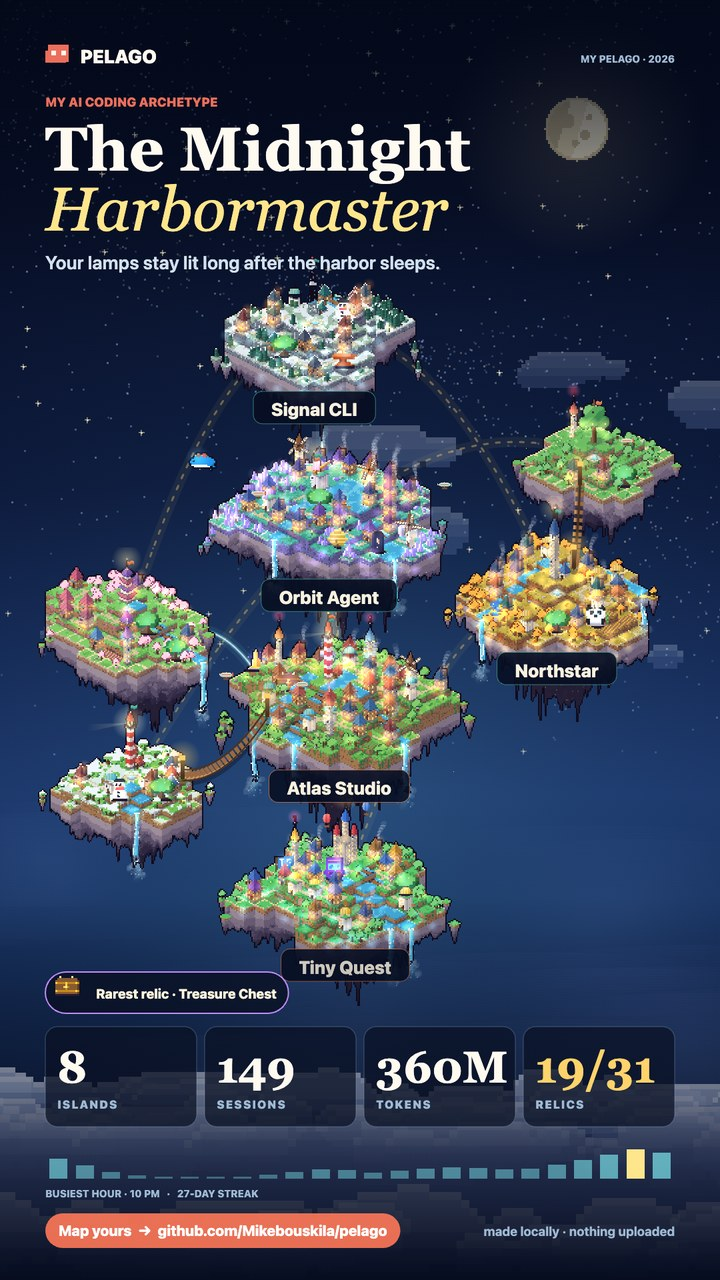
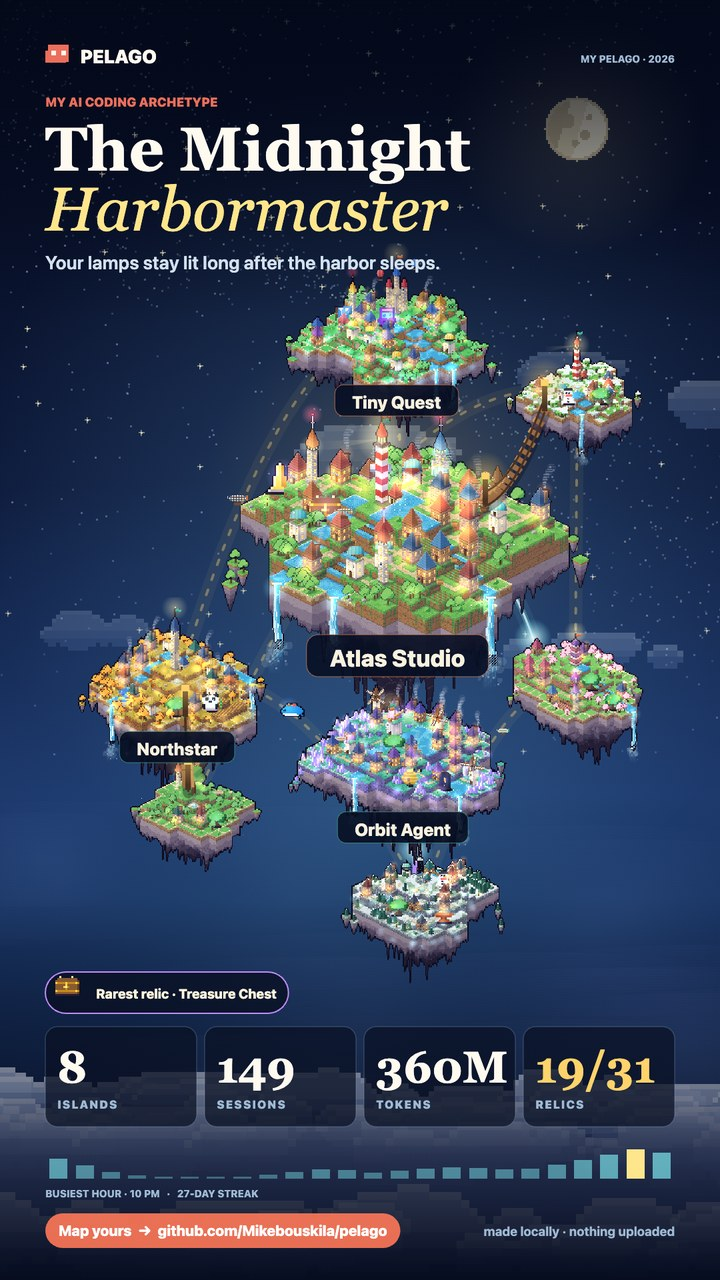
Share cards: the capital as the hero, packed around its neighbours

Changed region(s): [[0.0611, 0.1875, 0.9472, 0.7812]]

diff --git a/assets/world.js b/assets/world.js
@@ -177,21 +177,41 @@ function renderCard(canvas, format = state.format, selected = state.exportSelect
   drawOcean(context, width, height, selected ? selected.seed : 73, time);
   drawCloudSea(context, width, height, time);
 
-  // 1. The archipelago.
-  const projects = selected ? [selected] : PROJECTS;
-  const box = tall ? { left: 6 * scale, right: 6 * scale, top: height * .19, bottom: height * .26 }
-    : square ? { left: 8 * scale, right: 8 * scale, top: height * .25, bottom: height * .3 }
-      : { left: width * .38, right: 16 * scale, top: 24 * scale, bottom: 56 * scale };
-  const items = makeLayout(width, height, projects, { ...box, hang: selected ? .8 : .42, maxSize: 4000 });
+  // 1. The archipelago: the capital as the hero, the next biggest islands packed tight around it.
+  const ranked = [...PROJECTS].sort((a, b) => b.activity - a.activity);
+  const shown = selected ? [selected] : ranked.slice(0, tall ? 9 : square ? 8 : 11);
+  const hero = selected || ranked[0];
+  const factors = new Map(shown.map((project, index) => [project.id, project === hero ? (selected ? 1 : 1.75) : index < 4 ? 1.08 : .95]));
+  const box = tall ? { left: 4 * scale, right: 4 * scale, top: height * .19, bottom: height * .27 }
+    : square ? { left: 8 * scale, right: 8 * scale, top: height * .3, bottom: height * .29 }
+      : { left: width * .38, right: 12 * scale, top: 20 * scale, bottom: 50 * scale };
+  const items = makeLayout(width, height, shown, { ...box, hang: selected ? .8 : .32, maxSize: 4000, factors });
   const flat = { transform: { x: 0, y: 0, scale: 1 }, detail: true, selected: false, hovered: false };
   const pixel = items[0]?.px || 1;
+  const heroItem = items.find((item) => item.project.id === hero.id);
+  if (heroItem) {
+    // A warm halo behind the capital gives the card a centre.
+    const radius = heroItem.size * 2.4;
+    const halo = context.createRadialGradient(heroItem.x, heroItem.y - heroItem.size * .3, 0, heroItem.x, heroItem.y - heroItem.size * .3, radius);
+    halo.addColorStop(0, 'rgba(255,214,111,.28)'); halo.addColorStop(.45, 'rgba(125,190,240,.1)'); halo.addColorStop(1, 'rgba(125,190,240,0)');
+    context.fillStyle = halo; context.fillRect(heroItem.x - radius, heroItem.y - radius * 1.2, radius * 2, radius * 2.2);
+  }
   if (!selected) drawConnections(context, items, flat.transform, time, pixel, 'route');
   [...items].sort((a, b) => a.y - b.y).forEach((item) => drawIsland(context, item, { ...flat, label: false, time }));
   if (!selected) drawConnections(context, items, flat.transform, time, pixel, 'bridges');
   drawCloudSea(context, width, height, time, true);
   if (showNames && !selected) {
-    const named = new Set([...projects].sort((a, b) => b.activity - a.activity).slice(0, tall ? 5 : 4).map((project) => project.id));
-    items.filter((item) => named.has(item.project.id)).forEach((item) => drawIslandLabel(context, item, { ...flat, labelScale: scale * (tall ? 2.7 : wide ? 1.6 : 2.1) }));
+    const named = new Set(ranked.slice(0, tall ? 4 : 3).map((project) => project.id));
+    items.filter((item) => named.has(item.project.id)).forEach((item) => drawIslandLabel(context, item, { ...flat, labelScale: scale * (item === heroItem ? 1.35 : 1) * (tall ? 2.6 : wide ? 1.6 : 2.1) }));
+  }
+  const hidden = PROJECTS.length - shown.length;
+  if (hidden > 0 && !selected && !wide) {
+    const bottom = Math.max(...items.map((item) => item.y + item.size * .9));
+    context.textAlign = 'center'; context.fillStyle = 'rgba(220,232,248,.75)'; context.font = `800 ${(tall ? 20 : 15) * scale}px ${SANS}`;
+    if ('letterSpacing' in context) context.letterSpacing = `${2 * scale}px`;
+    const centreX = wide ? (box.left + width - box.right) / 2 : width / 2;
+    context.fillText(`+ ${hidden} MORE ISLANDS`, centreX, Math.min(bottom + 26 * scale, height - (tall ? 410 : wide ? 70 : 250) * scale));
+    if ('letterSpacing' in context) context.letterSpacing = '0px';
   }
 
   // 2. Scrims so the words always read.
@@ -716,8 +736,8 @@ function makeLayout(width, height, projects = PROJECTS, options = {}) {
   const availableWidth = Math.max(120, width - box.left - box.right);
   const availableHeight = Math.max(120, height - box.top - box.bottom);
   const aspect = clamp(availableHeight / availableWidth, .45, 2);
-  const key = `${projects.map((project) => project.id).join()}|${aspect.toFixed(2)}|${options.depth ? 1 : 0}`;
-  let factors = null, hazes = null, tierOf = null;
+  const key = `${projects.map((project) => project.id).join()}|${aspect.toFixed(2)}|${options.depth ? 1 : 0}|${options.factors ? [...options.factors.values()].join() : ''}`;
+  let factors = options.factors || null, hazes = null, tierOf = null;
   if (options.depth) {
     factors = new Map(); hazes = new Map(); tierOf = new Map();
     sceneTiers(projects).forEach((tier, index) => tier.forEach((project) => {
